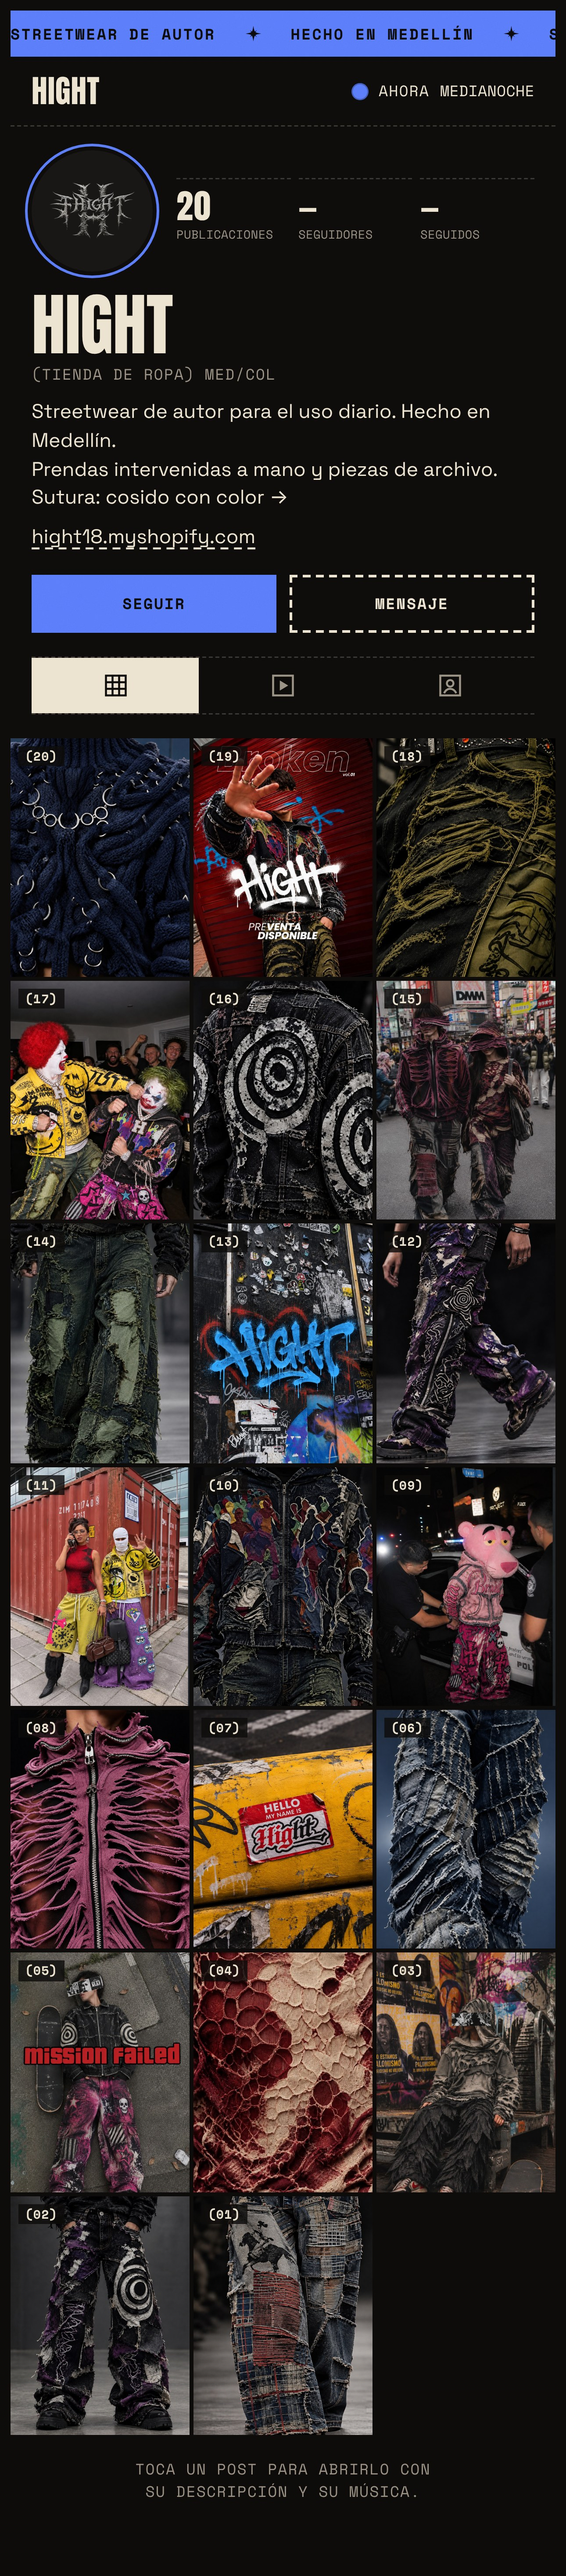
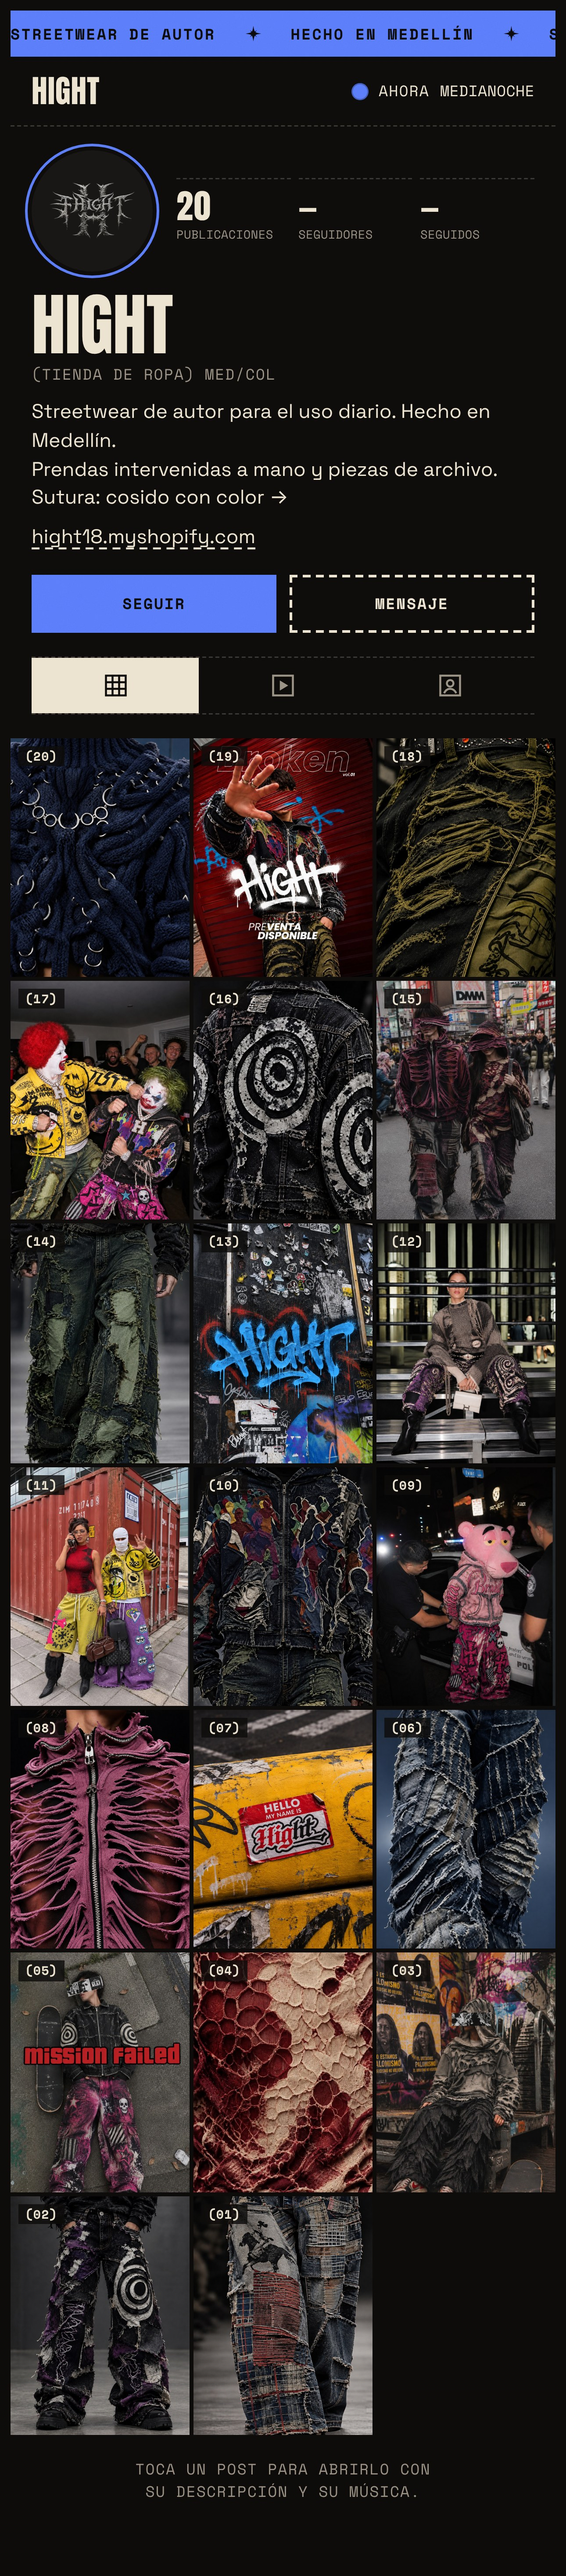
Feed de Sutura: el post 12 es ahora la foto en primera fila
Claude-Session: https://claude.ai/code/session_01G48NiERhNFFkxz4Zg6J7Mb

Changed region(s): [[0.6512, 0.4683, 0.9922, 0.5931]]

diff --git a/bocetos/primeros-planos/muestra.html b/bocetos/primeros-planos/muestra.html
@@ -236,7 +236,7 @@ body::after {
 })();
 </script>
 <script>
-const POSTS = [{"n": 1, "src": "fotos/jean-patchwork-cuadros.jpg", "alt": "Jean Patchwork Cuadros de cerca: parches de franela, ladrillo y denim con el borde crudo", "pista": "rock-psicodelico", "pistaNombre": "Rock psicodélico", "desde": 4.286, "dura": 12.857, "lineas": ["Jean Patchwork Cuadros: franela a cuadros, ladrillo y denim lavado, cosidos con el borde crudo.", "Cada parche viene de otra prenda; juntos cuentan otra historia.", "$540.000, en el enlace de la bio.", "Fotos creadas con IA a partir de las prendas reales."], "hashtags": "#HIGHT #Sutura #DenimIntervenido", "etiquetas": "Jean Patchwork Cuadros", "fecha": "Sutura · 01 de 20"}, {"n": 2, "src": "fotos/jean-patchwork-estrellas-violeta-frente.jpg", "alt": "Jean Patchwork Estrellas Violeta de frente: parches violeta y negros con una diana pintada en blanco", "pista": "pop-psicodelico", "pistaNombre": "Pop psicodélico", "desde": 4.615, "dura": 11.538, "lineas": ["Jean Patchwork Estrellas Violeta: parches violeta y negros, costura cruda y una diana pintada a mano.", "Ningún parche está donde debería. Ese es el punto.", "$650.000, en el enlace de la bio."], "hashtags": "#HIGHT #Sutura", "etiquetas": "Jean Patchwork Estrellas Violeta", "fecha": "Sutura · 02 de 20"}, {"n": 3, "src": "fotos/buzo-ceniza-afiches.jpg", "alt": "Buzo gris calado a mano y pantalón de capas negras, sentado frente a una pared con afiches y grafiti", "pista": "neo-psicodelia", "pistaNombre": "Neo-psicodelia", "desde": 22.041, "dura": 12.245, "lineas": ["Gris asfalto, calado a mano, capa sobre capa.", "Lo que se deshace también abriga.", "Guarda este post."], "hashtags": "#HIGHT #Sutura #HechoAMano", "etiquetas": "por confirmar", "fecha": "Sutura · 03 de 20"}, {"n": 4, "src": "fotos/camiseta-celula-carmin.jpg", "alt": "Camiseta Célula Carmín de cerca: estampado de células en carmín y hueso", "pista": "neo-psicodelia", "pistaNombre": "Neo-psicodelia", "desde": 19.592, "dura": 12.245, "lineas": ["Camiseta Célula Carmín: estampado de pintura fluida en carmín y hueso, sobre la tela calada.", "De lejos, una mancha. De cerca, células.", "$169.000, en el enlace de la bio."], "hashtags": "#HIGHT #Sutura", "etiquetas": "Camiseta Célula Carmín", "fecha": "Sutura · 04 de 20"}, {"n": 5, "src": "fotos/mission-failed.jpg", "alt": "Alguien acostado en el piso junto a una patineta, con chaqueta de espirales y cargo rosado con calavera", "pista": "rock-psicodelico", "pistaNombre": "Rock psicodélico", "desde": 17.143, "dura": 12.857, "lineas": ["Misión fallida, outfit cumplido.", "Caer también es una pose.", "Etiqueta a tu compañero de misiones."], "hashtags": "#HIGHT #Sutura", "etiquetas": "por confirmar", "fecha": "Sutura · 05 de 20"}, {"n": 6, "src": "fotos/jean-wide-fleco-indigo.jpg", "alt": "Jean Wide Fleco Índigo de cerca: franjas de índigo deshilachadas, cosidas en diagonal", "pista": "neo-psicodelia", "pistaNombre": "Neo-psicodelia", "desde": 0.0, "dura": 12.245, "lineas": ["Jean Wide Fleco Índigo: franjas de índigo cosidas en diagonal, con el borde deshilachado a mano.", "Se mueve antes que tú.", "$620.000. Guarda este post."], "hashtags": "#HIGHT #Sutura #DenimIntervenido", "etiquetas": "Jean Wide Fleco Índigo", "fecha": "Sutura · 06 de 20"}, {"n": 7, "src": "fotos/sticker-hello.jpg", "alt": "Sticker de HIGHT pegado en una baranda amarilla de la calle", "pista": "rock-psicodelico", "pistaNombre": "Rock psicodélico", "desde": 12.857, "dura": 12.857, "lineas": ["Hello, my name is HIGHT.", "Si lo ves pegado en la calle, ya sabes quién pasó.", "Mándanos una foto si encuentras uno."], "hashtags": "#HIGHT #Sutura #Medellín", "etiquetas": "ninguno", "fecha": "Sutura · 07 de 20"}, {"n": 8, "src": "fotos/chaqueta-blood-rose.jpg", "alt": "Chaqueta Blood Rose de cerca: la capa lavanda calada y la cremallera metálica", "pista": "neo-psicodelia", "pistaNombre": "Neo-psicodelia", "desde": 7.347, "dura": 12.245, "lineas": ["Chaqueta Blood Rose: capa lavanda calada a mano y una cremallera metálica que sube hasta el cuello.", "Elegante no es lo mismo que obediente.", "$500.000, en el enlace de la bio."], "hashtags": "#HIGHT #Sutura #HechoAMano", "etiquetas": "Chaqueta Blood Rose", "fecha": "Sutura · 08 de 20"}, {"n": 9, "src": "fotos/pantera-patrulla.jpg", "alt": "Alguien con cabeza de pantera rosada y ropa intervenida en rosado, junto a una patrulla de noche", "pista": "rock-psicodelico", "pistaNombre": "Rock psicodélico", "desde": 0.0, "dura": 12.857, "lineas": ["Sutura salió de noche y la calle no estaba lista.", "Hay prendas que se notan hasta desde la patrulla.", "Etiqueta a quien terminaría así."], "hashtags": "#HIGHT #Sutura", "etiquetas": "por confirmar", "fecha": "Sutura · 09 de 20"}, {"n": 10, "src": "fotos/buzo-multitud-termica.jpg", "alt": "Buzo Multitud Térmica de cerca: siluetas de colores sobre denim negro deshilachado", "pista": "pop-psicodelico", "pistaNombre": "Pop psicodélico", "desde": 13.846, "dura": 11.538, "lineas": ["Buzo Multitud Térmica: una multitud en colores de cámara térmica sobre denim negro lavado.", "Entre la multitud, nadie se parece.", "$390.000, en el enlace de la bio."], "hashtags": "#HIGHT #Sutura", "etiquetas": "Buzo Multitud Térmica", "fecha": "Sutura · 10 de 20"}, {"n": 11, "src": "fotos/contenedor.jpg", "alt": "Dos personas frente a un contenedor rojo: bermuda verde con cruz rosada, chaqueta amarilla pintada y pantalón violeta", "pista": "pop-psicodelico", "pistaNombre": "Pop psicodélico", "desde": 18.462, "dura": 11.538, "lineas": ["Dos salidas frente al mismo contenedor.", "El color también viaja.", "¿Cuál te llevas: el amarillo o el violeta? Te leemos."], "hashtags": "#HIGHT #Sutura", "etiquetas": "por confirmar", "fecha": "Sutura · 11 de 20"}, {"n": 12, "src": "fotos/jean-patchwork-estrellas-violeta-estrella.jpg", "alt": "Jean Patchwork Estrellas Violeta caminando: la estrella en espiral sobre violeta salpicado", "pista": "rock-psicodelico", "pistaNombre": "Rock psicodélico", "desde": 21.429, "dura": 12.857, "lineas": ["Jean Patchwork Estrellas Violeta: la estrella en espiral, de cerca, sobre violeta salpicado de cloro.", "Camina y el estampado camina contigo.", "¿Violeta o negro? Te leemos."], "hashtags": "#HIGHT #Sutura #DenimIntervenido", "etiquetas": "Jean Patchwork Estrellas Violeta", "fecha": "Sutura · 12 de 20"}, {"n": 13, "src": "fotos/grafiti-hight.jpg", "alt": "HIGHT pintado en azul sobre una pared llena de stickers y grafiti", "pista": "neo-psicodelia", "pistaNombre": "Neo-psicodelia", "desde": 24.49, "dura": 12.245, "lineas": ["HIGHT, en la pared.", "La firma se pone donde se vive.", "¿Dónde la pintarías tú? Te leemos."], "hashtags": "#HIGHT #Sutura #Medellín", "etiquetas": "ninguno", "fecha": "Sutura · 13 de 20"}, {"n": 14, "src": "fotos/jean-flare-destroyed-verde.jpg", "alt": "Jean Flare Destroyed Verde de cerca: rotos grandes rellenos de tela verde clara", "pista": "rock-psicodelico", "pistaNombre": "Rock psicodélico", "desde": 12.857, "dura": 12.857, "lineas": ["Jean Flare Destroyed Verde: rotos grandes rellenos de tela verde clara, cosidos en zigzag.", "Lo gastado también se elige.", "$480.000. Etiqueta a quien lo llevaría."], "hashtags": "#HIGHT #Sutura #DenimIntervenido", "etiquetas": "Jean Flare Destroyed Verde", "fecha": "Sutura · 14 de 20"}, {"n": 15, "src": "fotos/calle-carmin.jpg", "alt": "Dos personas caminando por una calle llena de gente, con chaqueta y saco calados en carmín", "pista": "neo-psicodelia", "pistaNombre": "Neo-psicodelia", "desde": 4.898, "dura": 12.245, "lineas": ["Carmín calado de pies a cabeza, lejos de casa.", "Cosido aquí, caminado en cualquier parte.", "Guarda este post."], "hashtags": "#HIGHT #Sutura #HechoAMano", "etiquetas": "por confirmar", "fecha": "Sutura · 15 de 20"}, {"n": 16, "src": "fotos/chaqueta-trouble-maker.jpg", "alt": "Chaqueta Trouble Maker de espalda: espirales pintadas en blanco sobre denim negro", "pista": "rock-psicodelico", "pistaNombre": "Rock psicodélico", "desde": 8.571, "dura": 12.857, "lineas": ["Chaqueta Trouble Maker: denim negro de archivo, espirales pintadas a mano en blanco y parches deshilachados.", "La espalda también habla.", "$580.000. Etiqueta a quien la llevaría."], "hashtags": "#HIGHT #Sutura #DenimIntervenido", "etiquetas": "Chaqueta Trouble Maker", "fecha": "Sutura · 16 de 20"}, {"n": 17, "src": "fotos/pelea-payasos.jpg", "alt": "Dos personas disfrazadas de payaso peleando en una fiesta, con chaqueta amarilla pintada y buzo de siluetas de colores", "pista": "pop-psicodelico", "pistaNombre": "Pop psicodélico", "desde": 23.077, "dura": 11.538, "lineas": ["Dos chaquetas intervenidas y ninguna tregua.", "La fiesta se acaba cuando alguien llega mejor vestido.", "Etiqueta a quien empezaría la pelea."], "hashtags": "#HIGHT #Sutura", "etiquetas": "por confirmar", "fecha": "Sutura · 17 de 20"}, {"n": 18, "src": "fotos/jean-flare-dragon-acido.jpg", "alt": "Jean Flare Dragón Ácido de cerca: hilos oliva sobre negro y el dragón en tinta", "pista": "pop-psicodelico", "pistaNombre": "Pop psicodélico", "desde": 9.231, "dura": 11.538, "lineas": ["Jean Flare Dragón Ácido: hilos oliva sueltos sobre negro y un dragón en tinta en la pierna.", "Lo que se deshace también tiene forma.", "$490.000, en el enlace de la bio."], "hashtags": "#HIGHT #Sutura", "etiquetas": "Jean Flare Dragón Ácido", "fecha": "Sutura · 18 de 20"}, {"n": 19, "src": "fotos/broken-preventa.jpg", "alt": "Afiche de la preventa: alguien con chaqueta de hilos de colores frente a una persiana roja, con HIGHT en grafiti blanco", "pista": "pop-psicodelico", "pistaNombre": "Pop psicodélico", "desde": 0.0, "dura": 11.538, "lineas": ["Preventa abierta.", "Cada pieza se hace por encargo y no se repite.", "Separa la tuya en el enlace de la bio."], "hashtags": "#HIGHT #Sutura", "etiquetas": "por confirmar", "fecha": "Sutura · 19 de 20"}, {"n": 20, "src": "fotos/tejido-anillos-indigo.jpg", "alt": "Tejido Anillos Índigo de cerca: tiras tejidas en azul noche unidas con argollas metálicas", "pista": "neo-psicodelia", "pistaNombre": "Neo-psicodelia", "desde": 14.694, "dura": 12.245, "lineas": ["Tejido Anillos Índigo: tiras tubulares tejidas en azul noche, unidas con argollas metálicas.", "Un suéter que no se parece a otro.", "$460.000. Mira las argollas en la ficha de la tienda."], "hashtags": "#HIGHT #Sutura #HechoAMano", "etiquetas": "Tejido Anillos Índigo", "fecha": "Sutura · 20 de 20"}];
+const POSTS = [{"n": 1, "src": "fotos/jean-patchwork-cuadros.jpg", "alt": "Jean Patchwork Cuadros de cerca: parches de franela, ladrillo y denim con el borde crudo", "pista": "rock-psicodelico", "pistaNombre": "Rock psicodélico", "desde": 4.286, "dura": 12.857, "lineas": ["Jean Patchwork Cuadros: franela a cuadros, ladrillo y denim lavado, cosidos con el borde crudo.", "Cada parche viene de otra prenda; juntos cuentan otra historia.", "$540.000, en el enlace de la bio.", "Fotos creadas con IA a partir de las prendas reales."], "hashtags": "#HIGHT #Sutura #DenimIntervenido", "etiquetas": "Jean Patchwork Cuadros", "fecha": "Sutura · 01 de 20"}, {"n": 2, "src": "fotos/jean-patchwork-estrellas-violeta-frente.jpg", "alt": "Jean Patchwork Estrellas Violeta de frente: parches violeta y negros con una diana pintada en blanco", "pista": "pop-psicodelico", "pistaNombre": "Pop psicodélico", "desde": 4.615, "dura": 11.538, "lineas": ["Jean Patchwork Estrellas Violeta: parches violeta y negros, costura cruda y una diana pintada a mano.", "Ningún parche está donde debería. Ese es el punto.", "$650.000, en el enlace de la bio."], "hashtags": "#HIGHT #Sutura", "etiquetas": "Jean Patchwork Estrellas Violeta", "fecha": "Sutura · 02 de 20"}, {"n": 3, "src": "fotos/buzo-ceniza-afiches.jpg", "alt": "Buzo gris calado a mano y pantalón de capas negras, sentado frente a una pared con afiches y grafiti", "pista": "neo-psicodelia", "pistaNombre": "Neo-psicodelia", "desde": 22.041, "dura": 12.245, "lineas": ["Gris asfalto, calado a mano, capa sobre capa.", "Lo que se deshace también abriga.", "Guarda este post."], "hashtags": "#HIGHT #Sutura #HechoAMano", "etiquetas": "por confirmar", "fecha": "Sutura · 03 de 20"}, {"n": 4, "src": "fotos/camiseta-celula-carmin.jpg", "alt": "Camiseta Célula Carmín de cerca: estampado de células en carmín y hueso", "pista": "neo-psicodelia", "pistaNombre": "Neo-psicodelia", "desde": 19.592, "dura": 12.245, "lineas": ["Camiseta Célula Carmín: estampado de pintura fluida en carmín y hueso, sobre la tela calada.", "De lejos, una mancha. De cerca, células.", "$169.000, en el enlace de la bio."], "hashtags": "#HIGHT #Sutura", "etiquetas": "Camiseta Célula Carmín", "fecha": "Sutura · 04 de 20"}, {"n": 5, "src": "fotos/mission-failed.jpg", "alt": "Alguien acostado en el piso junto a una patineta, con chaqueta de espirales y cargo rosado con calavera", "pista": "rock-psicodelico", "pistaNombre": "Rock psicodélico", "desde": 17.143, "dura": 12.857, "lineas": ["Misión fallida, outfit cumplido.", "Caer también es una pose.", "Etiqueta a tu compañero de misiones."], "hashtags": "#HIGHT #Sutura", "etiquetas": "por confirmar", "fecha": "Sutura · 05 de 20"}, {"n": 6, "src": "fotos/jean-wide-fleco-indigo.jpg", "alt": "Jean Wide Fleco Índigo de cerca: franjas de índigo deshilachadas, cosidas en diagonal", "pista": "neo-psicodelia", "pistaNombre": "Neo-psicodelia", "desde": 0.0, "dura": 12.245, "lineas": ["Jean Wide Fleco Índigo: franjas de índigo cosidas en diagonal, con el borde deshilachado a mano.", "Se mueve antes que tú.", "$620.000. Guarda este post."], "hashtags": "#HIGHT #Sutura #DenimIntervenido", "etiquetas": "Jean Wide Fleco Índigo", "fecha": "Sutura · 06 de 20"}, {"n": 7, "src": "fotos/sticker-hello.jpg", "alt": "Sticker de HIGHT pegado en una baranda amarilla de la calle", "pista": "rock-psicodelico", "pistaNombre": "Rock psicodélico", "desde": 12.857, "dura": 12.857, "lineas": ["Hello, my name is HIGHT.", "Si lo ves pegado en la calle, ya sabes quién pasó.", "Mándanos una foto si encuentras uno."], "hashtags": "#HIGHT #Sutura #Medellín", "etiquetas": "ninguno", "fecha": "Sutura · 07 de 20"}, {"n": 8, "src": "fotos/chaqueta-blood-rose.jpg", "alt": "Chaqueta Blood Rose de cerca: la capa lavanda calada y la cremallera metálica", "pista": "neo-psicodelia", "pistaNombre": "Neo-psicodelia", "desde": 7.347, "dura": 12.245, "lineas": ["Chaqueta Blood Rose: capa lavanda calada a mano y una cremallera metálica que sube hasta el cuello.", "Elegante no es lo mismo que obediente.", "$500.000, en el enlace de la bio."], "hashtags": "#HIGHT #Sutura #HechoAMano", "etiquetas": "Chaqueta Blood Rose", "fecha": "Sutura · 08 de 20"}, {"n": 9, "src": "fotos/pantera-patrulla.jpg", "alt": "Alguien con cabeza de pantera rosada y ropa intervenida en rosado, junto a una patrulla de noche", "pista": "rock-psicodelico", "pistaNombre": "Rock psicodélico", "desde": 0.0, "dura": 12.857, "lineas": ["Sutura salió de noche y la calle no estaba lista.", "Hay prendas que se notan hasta desde la patrulla.", "Etiqueta a quien terminaría así."], "hashtags": "#HIGHT #Sutura", "etiquetas": "por confirmar", "fecha": "Sutura · 09 de 20"}, {"n": 10, "src": "fotos/buzo-multitud-termica.jpg", "alt": "Buzo Multitud Térmica de cerca: siluetas de colores sobre denim negro deshilachado", "pista": "pop-psicodelico", "pistaNombre": "Pop psicodélico", "desde": 13.846, "dura": 11.538, "lineas": ["Buzo Multitud Térmica: una multitud en colores de cámara térmica sobre denim negro lavado.", "Entre la multitud, nadie se parece.", "$390.000, en el enlace de la bio."], "hashtags": "#HIGHT #Sutura", "etiquetas": "Buzo Multitud Térmica", "fecha": "Sutura · 10 de 20"}, {"n": 11, "src": "fotos/contenedor.jpg", "alt": "Dos personas frente a un contenedor rojo: bermuda verde con cruz rosada, chaqueta amarilla pintada y pantalón violeta", "pista": "pop-psicodelico", "pistaNombre": "Pop psicodélico", "desde": 18.462, "dura": 11.538, "lineas": ["Dos salidas frente al mismo contenedor.", "El color también viaja.", "¿Cuál te llevas: el amarillo o el violeta? Te leemos."], "hashtags": "#HIGHT #Sutura", "etiquetas": "por confirmar", "fecha": "Sutura · 11 de 20"}, {"n": 12, "src": "fotos/primera-fila.jpg", "alt": "Alguien sentada en una gradería metálica con un tejido gris calado a mano y un pantalón violeta de espirales", "pista": "rock-psicodelico", "pistaNombre": "Rock psicodélico", "desde": 21.429, "dura": 12.857, "lineas": ["Tejido gris calado a mano y pantalón violeta de espirales, en primera fila.", "Adelante se sienta quien no necesita mirar a nadie.", "¿Con botas o con tenis? Te leemos."], "hashtags": "#HIGHT #Sutura #HechoAMano", "etiquetas": "por confirmar", "fecha": "Sutura · 12 de 20"}, {"n": 13, "src": "fotos/grafiti-hight.jpg", "alt": "HIGHT pintado en azul sobre una pared llena de stickers y grafiti", "pista": "neo-psicodelia", "pistaNombre": "Neo-psicodelia", "desde": 24.49, "dura": 12.245, "lineas": ["HIGHT, en la pared.", "La firma se pone donde se vive.", "¿Dónde la pintarías tú? Te leemos."], "hashtags": "#HIGHT #Sutura #Medellín", "etiquetas": "ninguno", "fecha": "Sutura · 13 de 20"}, {"n": 14, "src": "fotos/jean-flare-destroyed-verde.jpg", "alt": "Jean Flare Destroyed Verde de cerca: rotos grandes rellenos de tela verde clara", "pista": "rock-psicodelico", "pistaNombre": "Rock psicodélico", "desde": 12.857, "dura": 12.857, "lineas": ["Jean Flare Destroyed Verde: rotos grandes rellenos de tela verde clara, cosidos en zigzag.", "Lo gastado también se elige.", "$480.000. Etiqueta a quien lo llevaría."], "hashtags": "#HIGHT #Sutura #DenimIntervenido", "etiquetas": "Jean Flare Destroyed Verde", "fecha": "Sutura · 14 de 20"}, {"n": 15, "src": "fotos/calle-carmin.jpg", "alt": "Dos personas caminando por una calle llena de gente, con chaqueta y saco calados en carmín", "pista": "neo-psicodelia", "pistaNombre": "Neo-psicodelia", "desde": 4.898, "dura": 12.245, "lineas": ["Carmín calado de pies a cabeza, lejos de casa.", "Cosido aquí, caminado en cualquier parte.", "Guarda este post."], "hashtags": "#HIGHT #Sutura #HechoAMano", "etiquetas": "por confirmar", "fecha": "Sutura · 15 de 20"}, {"n": 16, "src": "fotos/chaqueta-trouble-maker.jpg", "alt": "Chaqueta Trouble Maker de espalda: espirales pintadas en blanco sobre denim negro", "pista": "rock-psicodelico", "pistaNombre": "Rock psicodélico", "desde": 8.571, "dura": 12.857, "lineas": ["Chaqueta Trouble Maker: denim negro de archivo, espirales pintadas a mano en blanco y parches deshilachados.", "La espalda también habla.", "$580.000. Etiqueta a quien la llevaría."], "hashtags": "#HIGHT #Sutura #DenimIntervenido", "etiquetas": "Chaqueta Trouble Maker", "fecha": "Sutura · 16 de 20"}, {"n": 17, "src": "fotos/pelea-payasos.jpg", "alt": "Dos personas disfrazadas de payaso peleando en una fiesta, con chaqueta amarilla pintada y buzo de siluetas de colores", "pista": "pop-psicodelico", "pistaNombre": "Pop psicodélico", "desde": 23.077, "dura": 11.538, "lineas": ["Dos chaquetas intervenidas y ninguna tregua.", "La fiesta se acaba cuando alguien llega mejor vestido.", "Etiqueta a quien empezaría la pelea."], "hashtags": "#HIGHT #Sutura", "etiquetas": "por confirmar", "fecha": "Sutura · 17 de 20"}, {"n": 18, "src": "fotos/jean-flare-dragon-acido.jpg", "alt": "Jean Flare Dragón Ácido de cerca: hilos oliva sobre negro y el dragón en tinta", "pista": "pop-psicodelico", "pistaNombre": "Pop psicodélico", "desde": 9.231, "dura": 11.538, "lineas": ["Jean Flare Dragón Ácido: hilos oliva sueltos sobre negro y un dragón en tinta en la pierna.", "Lo que se deshace también tiene forma.", "$490.000, en el enlace de la bio."], "hashtags": "#HIGHT #Sutura", "etiquetas": "Jean Flare Dragón Ácido", "fecha": "Sutura · 18 de 20"}, {"n": 19, "src": "fotos/broken-preventa.jpg", "alt": "Afiche de la preventa: alguien con chaqueta de hilos de colores frente a una persiana roja, con HIGHT en grafiti blanco", "pista": "pop-psicodelico", "pistaNombre": "Pop psicodélico", "desde": 0.0, "dura": 11.538, "lineas": ["Preventa abierta.", "Cada pieza se hace por encargo y no se repite.", "Separa la tuya en el enlace de la bio."], "hashtags": "#HIGHT #Sutura", "etiquetas": "por confirmar", "fecha": "Sutura · 19 de 20"}, {"n": 20, "src": "fotos/tejido-anillos-indigo.jpg", "alt": "Tejido Anillos Índigo de cerca: tiras tejidas en azul noche unidas con argollas metálicas", "pista": "neo-psicodelia", "pistaNombre": "Neo-psicodelia", "desde": 14.694, "dura": 12.245, "lineas": ["Tejido Anillos Índigo: tiras tubulares tejidas en azul noche, unidas con argollas metálicas.", "Un suéter que no se parece a otro.", "$460.000. Mira las argollas en la ficha de la tienda."], "hashtags": "#HIGHT #Sutura #HechoAMano", "etiquetas": "Tejido Anillos Índigo", "fecha": "Sutura · 20 de 20"}];
 const PISTAS = {"neo-psicodelia": "musica/neo-psicodelia.mp3", "rock-psicodelico": "musica/rock-psicodelico.mp3", "pop-psicodelico": "musica/pop-psicodelico.mp3"};
 const $ = (id) => document.getElementById(id);
 const audio = $('audio');

diff --git a/bocetos/primeros-planos/muestra.py b/bocetos/primeros-planos/muestra.py
@@ -47,11 +47,11 @@ POSTS = [
      ['Buzo Multitud Térmica: una multitud en colores de cámara térmica sobre denim negro lavado.',
       'Entre la multitud, nadie se parece.', '$390.000, en el enlace de la bio.'],
      '#HIGHT #Sutura'),
-    ('jean-patchwork-estrellas-violeta-estrella', 'Jean Patchwork Estrellas Violeta', ('rock-psicodelico', 10),
-     'Jean Patchwork Estrellas Violeta caminando: la estrella en espiral sobre violeta salpicado',
-     ['Jean Patchwork Estrellas Violeta: la estrella en espiral, de cerca, sobre violeta salpicado de cloro.',
-      'Camina y el estampado camina contigo.', '¿Violeta o negro? Te leemos.'],
-     '#HIGHT #Sutura #DenimIntervenido'),
+    ('primera-fila', 'por confirmar', ('rock-psicodelico', 10),
+     'Alguien sentada en una gradería metálica con un tejido gris calado a mano y un pantalón violeta de espirales',
+     ['Tejido gris calado a mano y pantalón violeta de espirales, en primera fila.',
+      'Adelante se sienta quien no necesita mirar a nadie.', '¿Con botas o con tenis? Te leemos.'],
+     '#HIGHT #Sutura #HechoAMano'),
     ('jean-flare-dragon-acido', 'Jean Flare Dragón Ácido', ('pop-psicodelico', 4),
      'Jean Flare Dragón Ácido de cerca: hilos oliva sobre negro y el dragón en tinta',
      ['Jean Flare Dragón Ácido: hilos oliva sueltos sobre negro y un dragón en tinta en la pierna.',
@@ -127,7 +127,7 @@ POSTS = [
 CUADRICULA = [
     'tejido-anillos-indigo', 'broken-preventa', 'jean-flare-dragon-acido',
     'pelea-payasos', 'chaqueta-trouble-maker', 'calle-carmin',
-    'jean-flare-destroyed-verde', 'grafiti-hight', 'jean-patchwork-estrellas-violeta-estrella',
+    'jean-flare-destroyed-verde', 'grafiti-hight', 'primera-fila',
     'contenedor', 'buzo-multitud-termica', 'pantera-patrulla',
     'chaqueta-blood-rose', 'sticker-hello', 'jean-wide-fleco-indigo',
     'mission-failed', 'camiseta-celula-carmin', 'buzo-ceniza-afiches',
